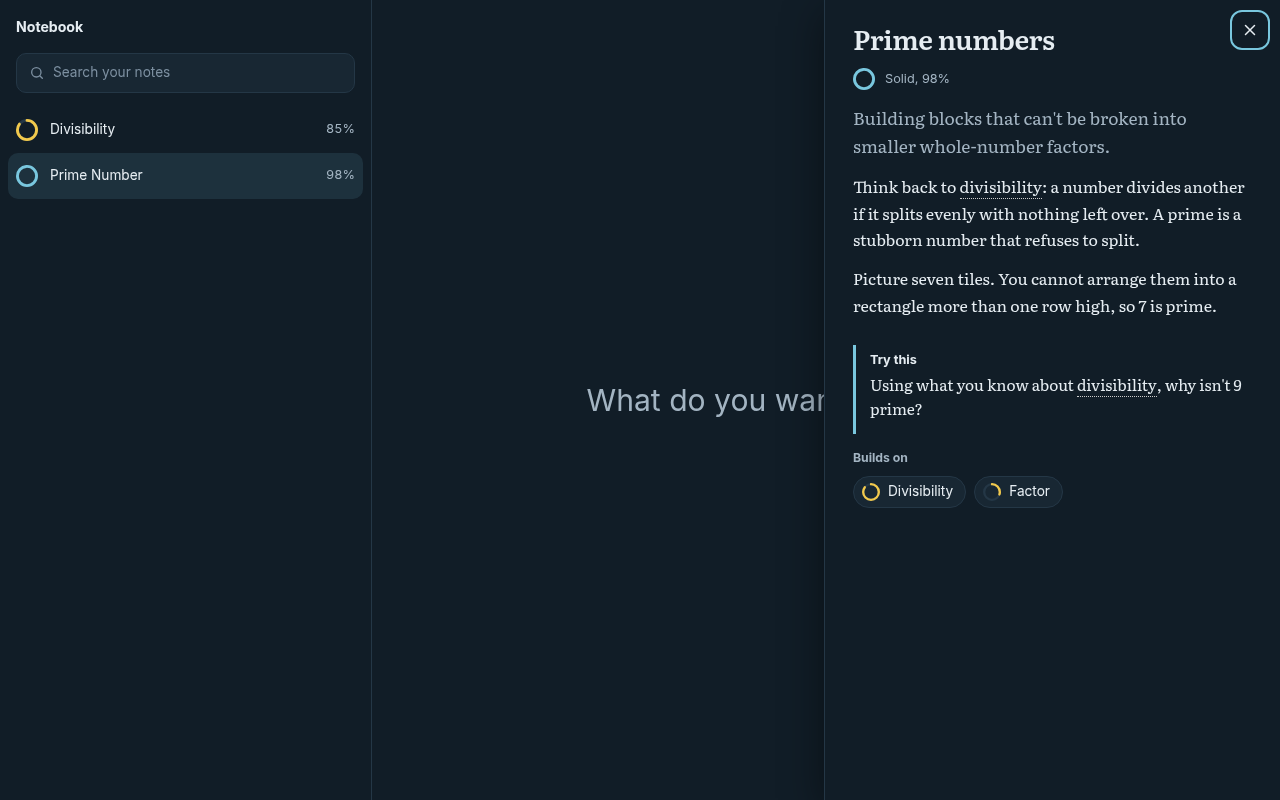
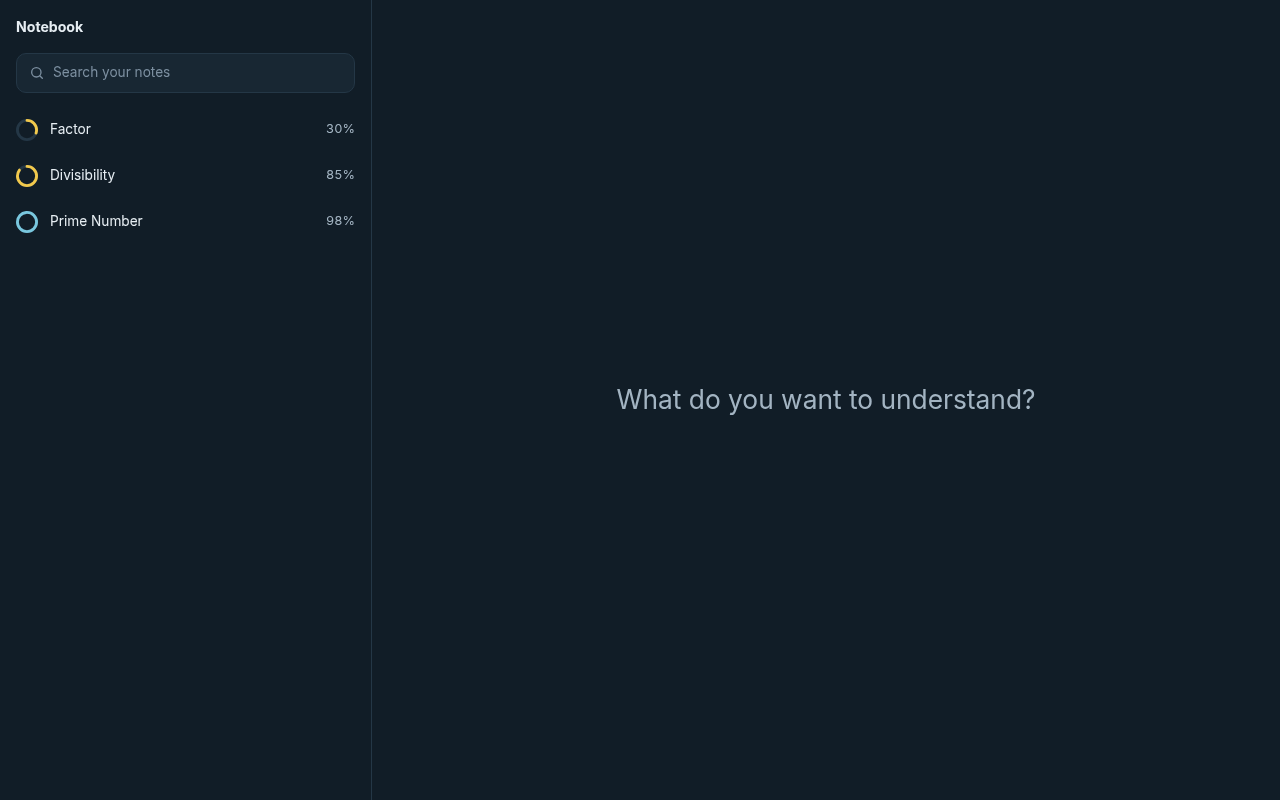
feat: beta-prep CDP definition-of-done gate + proof set
- e2e/knowledgeable-ui.cjs: 15-scenario CDP checks for SPEC 11
  (forbidden text, 12px floor, arrowhead clearance, focus walk,
  pane independence, dark input contrast); all passing
- Full 11.9 screenshot set in docs/ui-proof (25 shots)
- Decisions and carve-outs in ui-redesign-notes.md section 14

diff --git a/docs/agent-context/ui-redesign-notes.md b/docs/agent-context/ui-redesign-notes.md
@@ -258,3 +258,26 @@ Per-item levers (SPEC 8.3 preference order):
   `docs/ui-proof/landing-dark.png` — greeting + mark, placeholder, no
   footer, no sliders. SplitText letter animation can freeze mid-flight
   under headless virtual time; retaken with a longer budget.
+
+## 14. Beta-prep pass (SPEC 11 definition of done)
+
+- **CDP gate script** `e2e/knowledgeable-ui.cjs` (kept): raw DevTools
+  protocol via the workspace `ws` package, no new dependencies. Covers
+  11.2 (dark input bg + contrast), 11.3 (12px floor), 11.4 (arrowhead
+  endpoints outside node boxes via `getPointAtLength`), 11.5 (keyboard Tab
+  walk, outline or `.k-field` focus glow), 11.6 (forbidden text outside
+  `.k-dev`), 11.8 (chat bbox unchanged across drawer close). 15 scenarios,
+  all passing. Run: serve any fixture harness, then
+  `node e2e/knowledgeable-ui.cjs --harness <url>`.
+- **Carve-outs**: `.k-dev` inputs are exempt from the 11.2 white-bg rule
+  (dev-only, production-hidden — same spirit as the 11.6 carve-out), and
+  focused search inputs pass 11.5 via the `.k-field:focus-within` glow
+  instead of their own outline (deliberate in `k.css`: `.k-input:
+  focus-visible { outline: 0 }`).
+- **Proof set** (`docs/ui-proof/`, 25 shots): map × (3-concept, empty,
+  error) × themes, notebook list/empty, reader open × sizes × themes,
+  brand swatches, landing. Missing nothing from 11.9 except a light
+  landing (headless resolves dark; palette already proven per-theme).
+- **Strays resolved**: `models.json` was curl trace output (deleted);
+  `repomix.md` moved to `docs/agent-context/`; the handoff bundle is
+  tracked under `docs/design/`.
